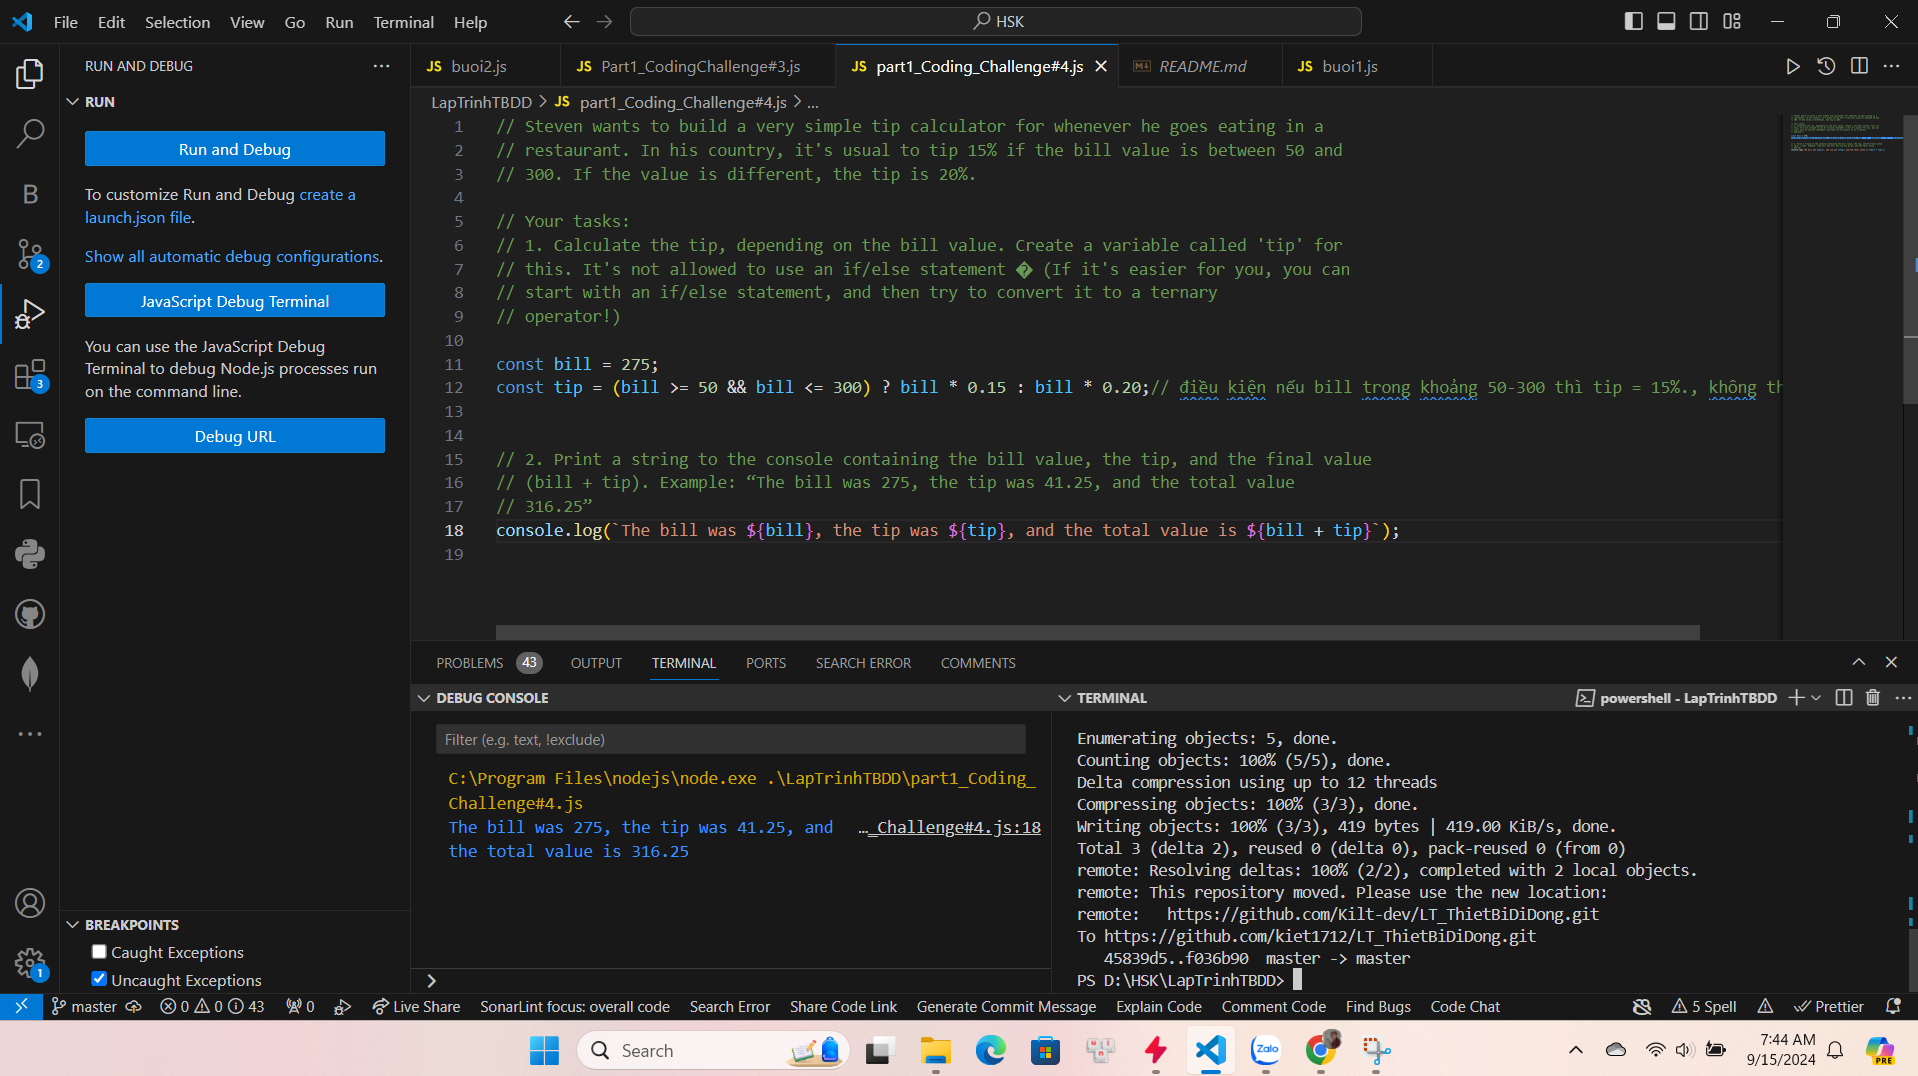
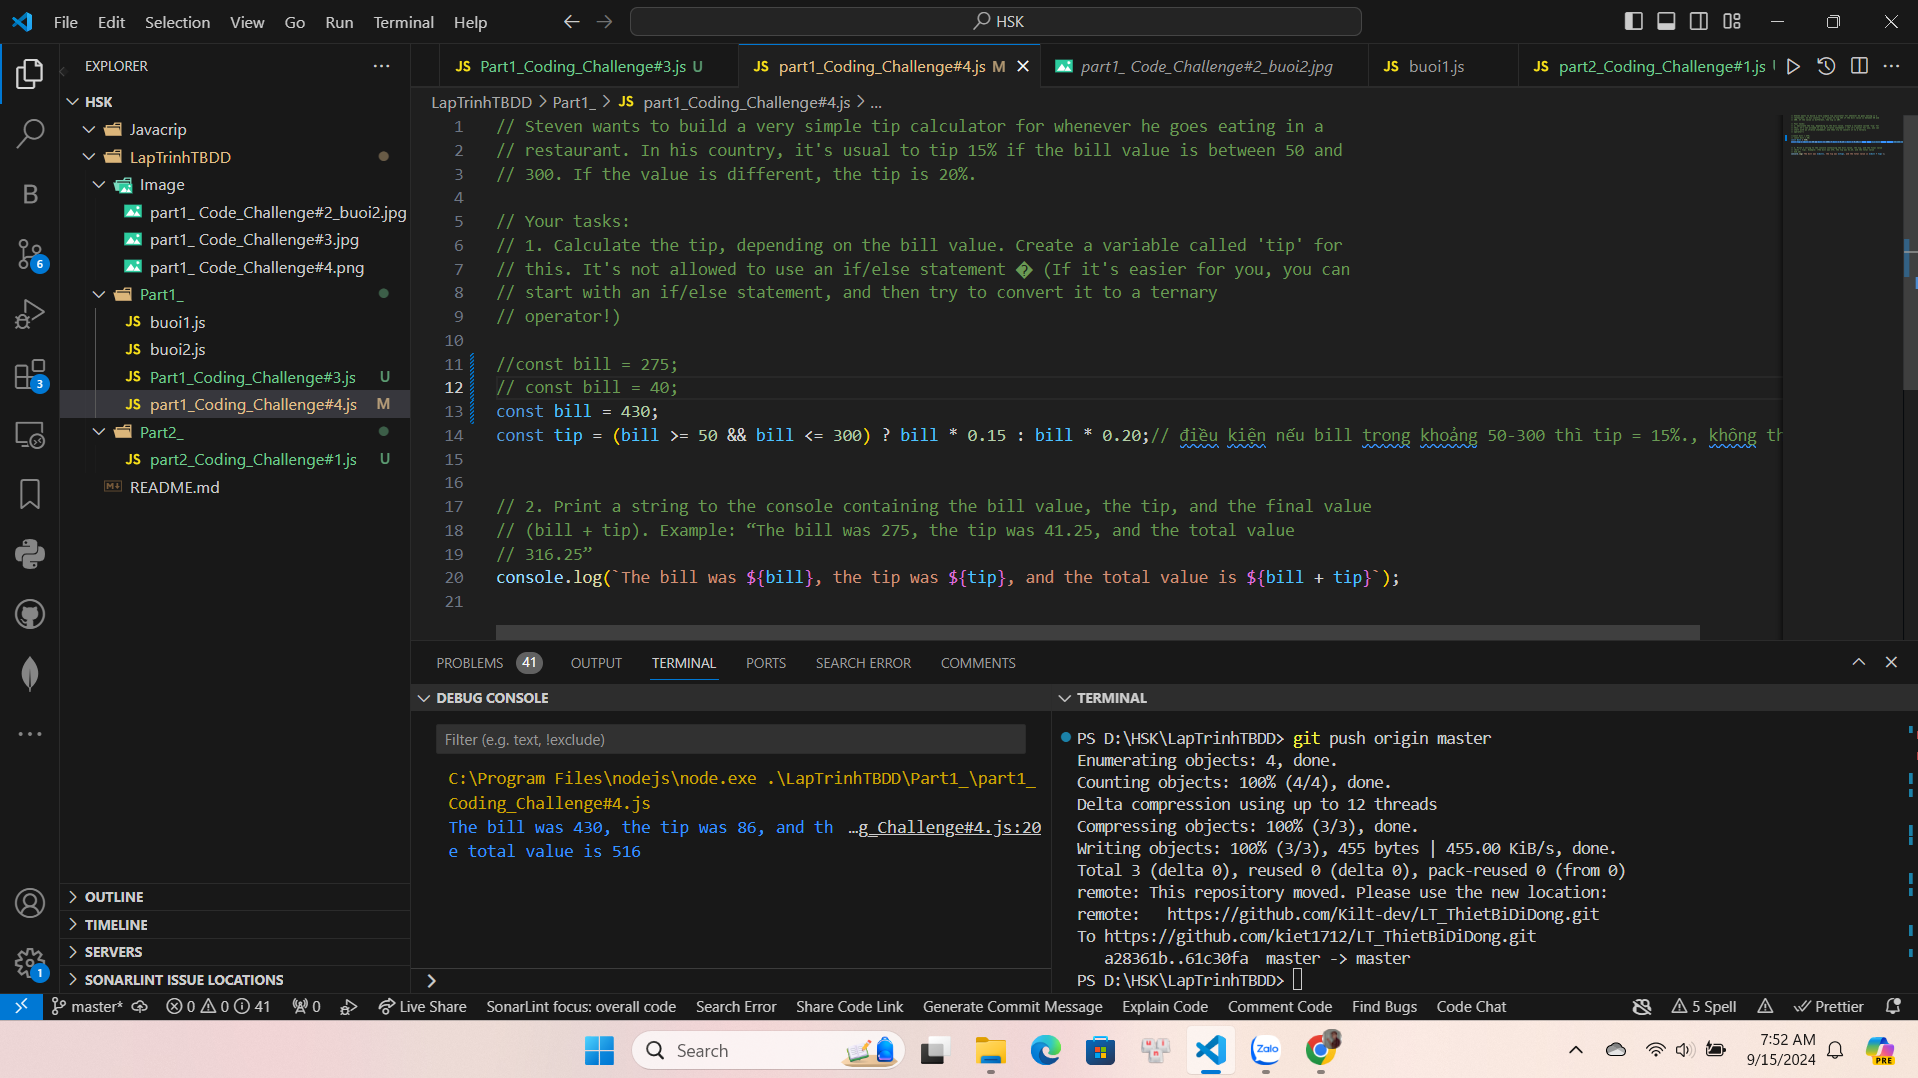
Ảnh minh chứng part1_ Code_Challenge#4

diff --git a/Part2_/part2_Coding_Challenge#1.js b/Part2_/part2_Coding_Challenge#1.js
@@ -1,0 +1,16 @@
+// Back to the two gymnastics teams, the Dolphins and the Koalas! There is a new
+// gymnastics discipline, which works differently.
+// Each team competes 3 times, and then the average of the 3 scores is calculated (so
+// one average score per team).
+// A team only wins if it has at least double the average score of the other team.
+// Otherwise, no team wins!
+
+// 1. Create an arrow function 'calcAverage' to calculate the average of 3 scores
+// 2. Use the function to calculate the average for both teams
+// 3. Create a function 'checkWinner' that takes the average score of each team
+// as parameters ('avgDolhins' and 'avgKoalas'), and then logs the winner
+// to the console, together with the victory points, according to the rule above.
+// Example: "Koalas win (30 vs. 13)"
+// 4. Use the 'checkWinner' function to determine the winner for both Data 1 and
+// Data 2
+// 5. Ignore draws this time

diff --git a/Part1_/part1_Coding_Challenge#4.js b/Part1_/part1_Coding_Challenge#4.js
@@ -8,7 +8,9 @@
 // start with an if/else statement, and then try to convert it to a ternary
 // operator!)
 
-const bill = 275;
+//const bill = 275;
+// const bill = 40;
+const bill = 430;
 const tip = (bill >= 50 && bill <= 300) ? bill * 0.15 : bill * 0.20;// điều kiện nếu bill trong khoảng 50-300 thì tip = 15%., không thì 20%
 
 
